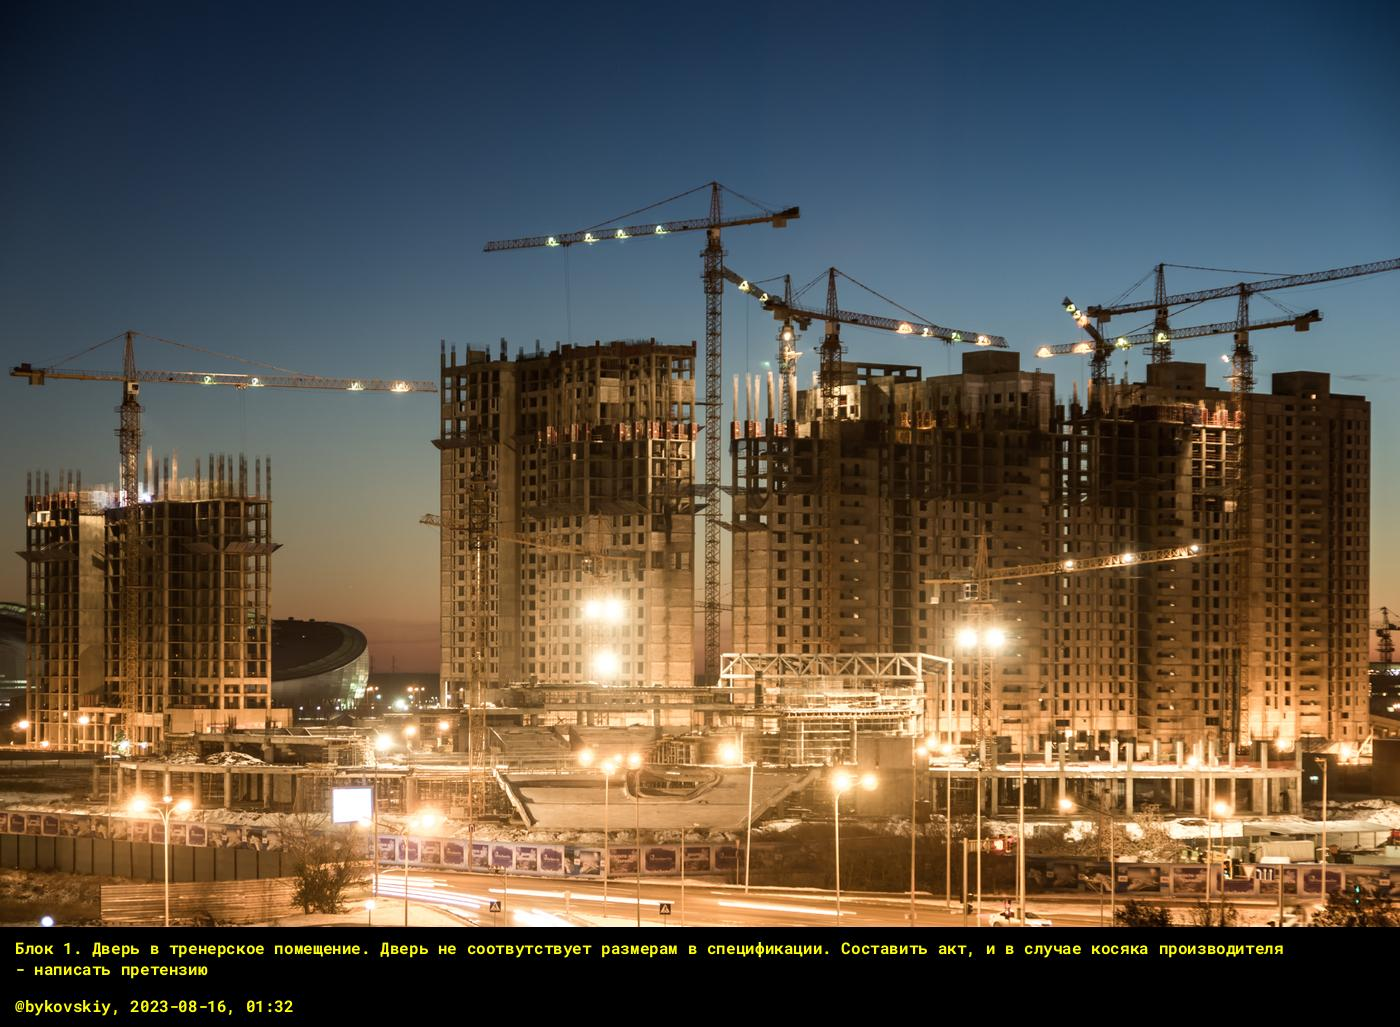
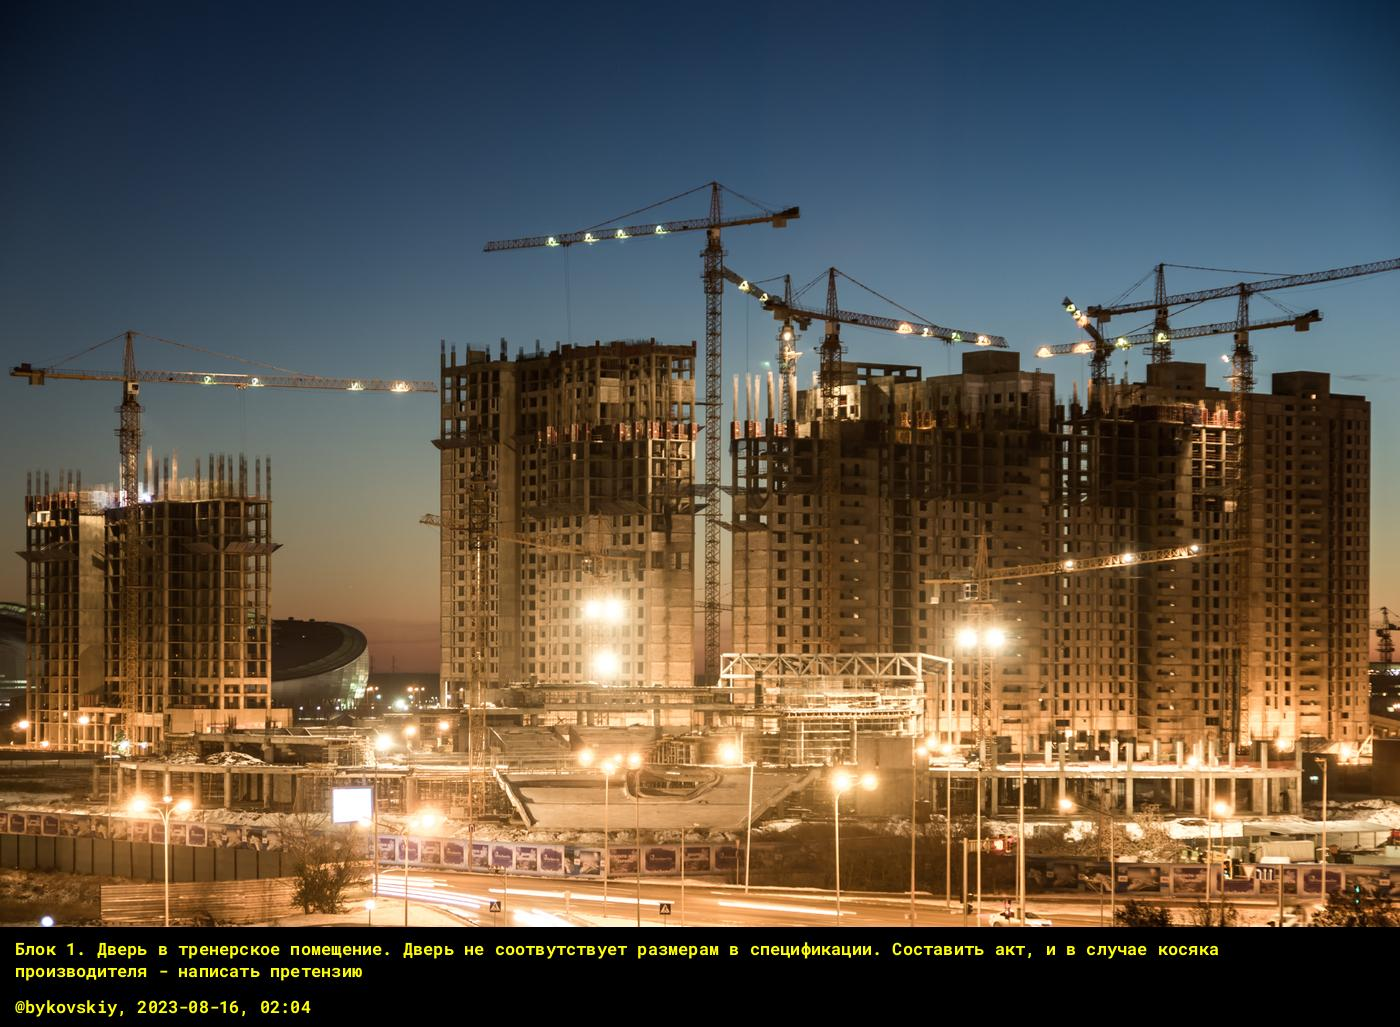
update

Changed region(s): [[0.0, 0.9036, 0.9214, 0.9971]]

diff --git a/main.py b/main.py
@@ -96,19 +96,18 @@ def sender_mark(image_wrapper, message_sender, text_start, font, text_color, pad
     
     draw_img.text((padding_left, y_text), text, font=font, fill=text_color, align='left')
 
-# def get_dynamic_fontsize(image, text, font_name):
-#     font_size = 1
-#     font = ImageFont.truetype(f"./fonts/{font_name}.ttf", font_size)
-#     print("size:", image.width)
-#     print(font.getbbox(text))
-#     while font.getbbox(text)[2] < image.width:
-#         print(font.getbbox(text)[2])
-#         font_size += 1
-#         font = ImageFont.truetype(f"./fonts/{font_name}.ttf", font_size)
-#     font_size -= 1
-#     print(font_size)
+def get_dynamic_fontsize(image, text, font_name):
+    font_size = 17
+    font = ImageFont.truetype(f"./fonts/{font_name}.ttf", font_size)
 
-#     return font, font_size
+    print(font.getbbox(text))
+    while font.getbbox(text)[2] - font.getbbox(text)[0] < image.width:
+        font_size += 1
+        font = ImageFont.truetype(f"./fonts/{font_name}.ttf", font_size)
+    
+    font_size -= 1
+    print("font: ", font_size)
+    return font, font_size
 
 def main():
     image_name = sys.argv[1]
@@ -119,9 +118,9 @@ def main():
     else:
         text = 'Блок 1. Дверь в тренерское помещение. Дверь не соотвутствует размерам в спецификации. Составить акт, и в случае косяка производителя - написать претензию'
     
-    fontsize = 16
+    #fontsize = 16
     font_name = 'robotomono-bold'
-    font = ImageFont.truetype(f"./fonts/{font_name}.ttf", fontsize)
+    #font = ImageFont.truetype(f"./fonts/{font_name}.ttf", fontsize)
     text_color = (255,255,0)
     padding_top = 10
     padding_bottom = 10
@@ -130,7 +129,7 @@ def main():
     spacing = 1
     
     image = Image.open(f'./images/{image_name}')
-    #font, fontsize = get_dynamic_fontsize(image, text, font_name)
+    font, fontsize = get_dynamic_fontsize(image, text, font_name)
     
     extra_space_size = get_extra_space_size(message_sender, font, image, fontsize, spacing)
     
